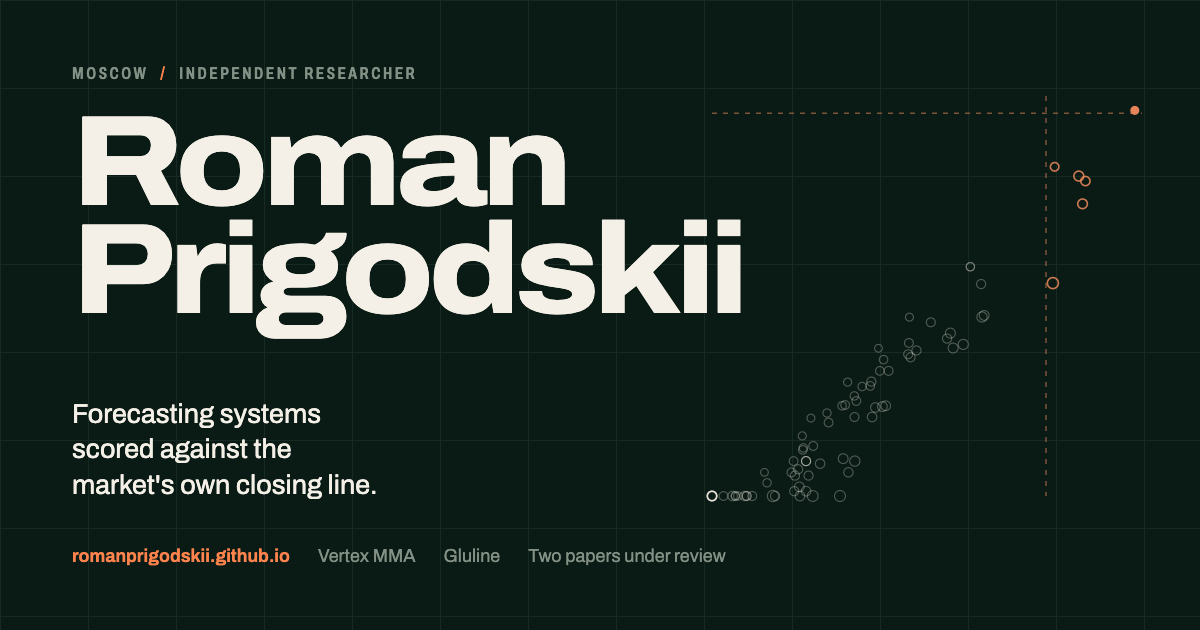
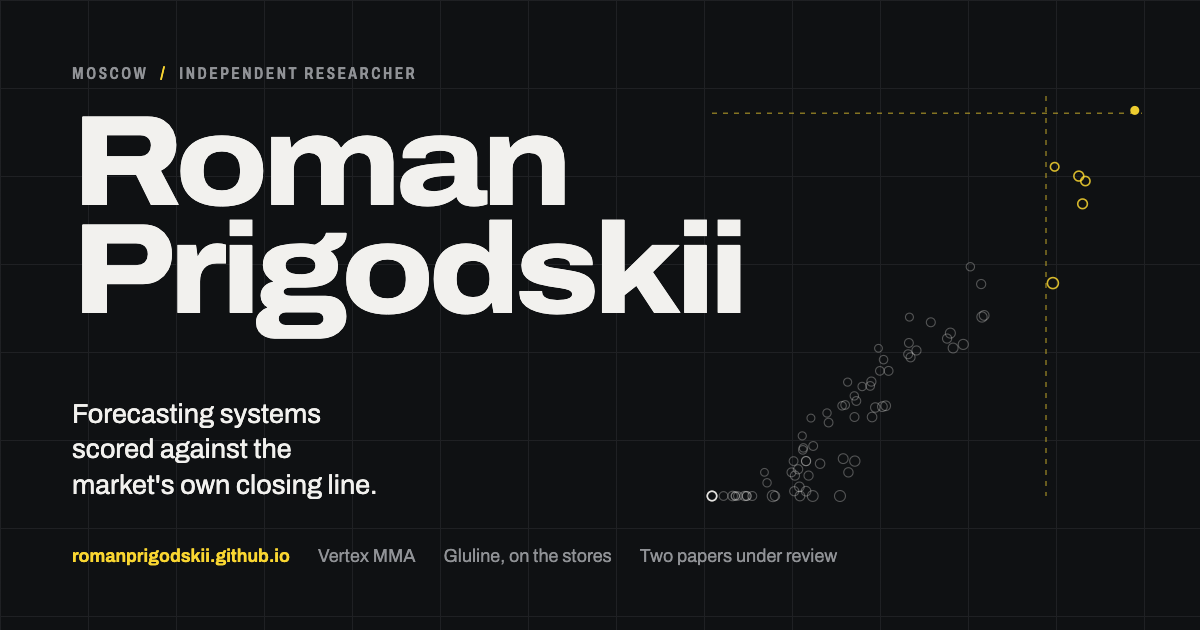
chore: graphite everywhere else
The plain page, the 404, the mark and the social card follow the new default.

diff --git a/plain/index.html b/plain/index.html
@@ -8,26 +8,26 @@
 <meta name="robots" content="index,follow">
 <link rel="canonical" href="https://romanprigodskii.github.io/plain/">
 <link rel="icon" href="../assets/img/mark.svg" type="image/svg+xml">
-<meta name="theme-color" content="#f4f0e6">
+<meta name="theme-color" content="#f1f0ec">
 <link rel="preconnect" href="https://fonts.gstatic.com" crossorigin>
 <link rel="stylesheet" href="https://fonts.googleapis.com/css2?family=Archivo:wdth,wght@62..125,100..900&display=swap">
 <style>
 :root{
-  --paper: oklch(0.962 0.011 88);
-  --ink:   oklch(0.215 0.028 168);
-  --ink-2: oklch(0.415 0.024 168);
-  --ink-3: oklch(0.539 0.020 168);
-  --rule:  oklch(0.855 0.016 110);
-  --sig:   oklch(0.545 0.195 31);
+  --paper: oklch(0.970 0.003 95);
+  --ink:   oklch(0.180 0.005 262);
+  --ink-2: oklch(0.400 0.006 262);
+  --ink-3: oklch(0.500 0.006 262);
+  --rule:  oklch(0.860 0.005 262);
+  --sig:   oklch(0.500 0.105 78);
 }
 @media (prefers-color-scheme: dark){
   :root{
-    --paper: oklch(0.205 0.027 168);
-    --ink:   oklch(0.955 0.013 88);
-    --ink-2: oklch(0.800 0.020 140);
-    --ink-3: oklch(0.640 0.022 150);
-    --rule:  oklch(0.312 0.031 168);
-    --sig:   oklch(0.742 0.168 43);
+    --paper: oklch(0.175 0.005 262);
+    --ink:   oklch(0.958 0.004 95);
+    --ink-2: oklch(0.790 0.005 262);
+    --ink-3: oklch(0.660 0.006 262);
+    --rule:  oklch(0.300 0.006 262);
+    --sig:   oklch(0.880 0.170 96);
   }
 }
 *,*::before,*::after{box-sizing:border-box}

diff --git a/research/index.html b/research/index.html
@@ -6,7 +6,7 @@
 <title>Research, Roman Prigodskii</title>
 <meta name="description" content="Two sole-authored papers under review at NeurIPS 2026 workshops: an e-value audit of 84 pre-registered market-efficiency hypotheses, and detection floors for model selection and LLM judges.">
 <meta name="author" content="Roman Prigodskii">
-<meta name="theme-color" content="#16291f">
+<meta name="theme-color" content="#101113">
 <link rel="canonical" href="https://romanprigodskii.github.io/research/">
 <meta property="og:type" content="article">
 <meta property="og:title" content="Research, Roman Prigodskii">
@@ -43,7 +43,7 @@
     <a href="#scatter-fig">The 84</a>
   </nav>
   <div class="bar__end">
-    <a class="bar__cta magnet" href="../">Back</a>
+    <a class="bar__cta magnet" href="../"><span class="roll">Back</span></a>
     <button class="themeswap" type="button" id="themeswap" aria-pressed="false">
       <span class="themeswap__track" aria-hidden="true"><span class="themeswap__dot"></span></span>
       <span class="u-sr">Switch between chalkboard and paper</span>
@@ -246,6 +246,7 @@
 <script src="../assets/js/vendor/lenis.min.js" defer></script>
 <script src="../assets/js/charts.js" defer></script>
 <script src="../assets/js/motion.js" defer></script>
+<script src="../assets/js/ui.js" defer></script>
 <script src="../assets/js/site.js" defer></script>
 </body>
 </html>

diff --git a/404.html b/404.html
@@ -8,7 +8,7 @@
 <link rel="icon" href="/assets/img/mark.svg" type="image/svg+xml">
 <link rel="stylesheet" href="https://fonts.googleapis.com/css2?family=Archivo:wdth,wght@62..125,100..900&display=swap">
 <style>
-:root{--bg:oklch(0.205 0.027 168);--ink:oklch(0.955 0.013 88);--ink2:oklch(0.640 0.022 150);--sig:oklch(0.742 0.168 43)}
+:root{--bg:oklch(0.175 0.005 262);--ink:oklch(0.958 0.004 95);--ink2:oklch(0.660 0.006 262);--sig:oklch(0.880 0.170 96)}
 *{box-sizing:border-box}
 body{margin:0;min-height:100svh;display:grid;place-content:center;gap:1rem;padding:2rem;
   background:var(--bg);color:var(--ink);
